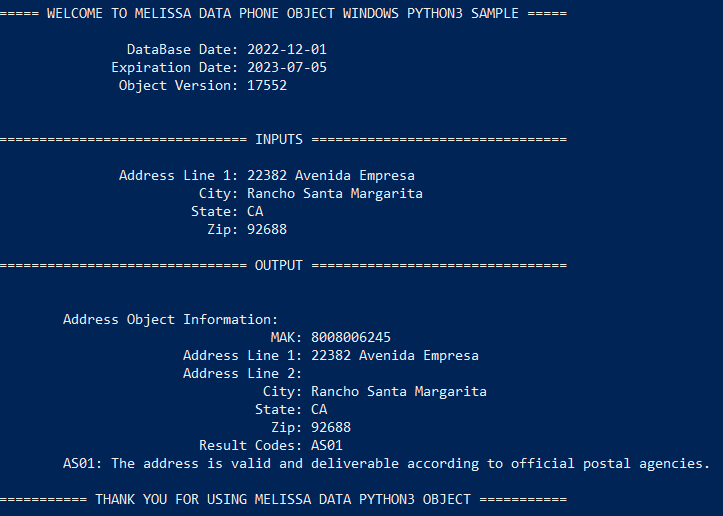
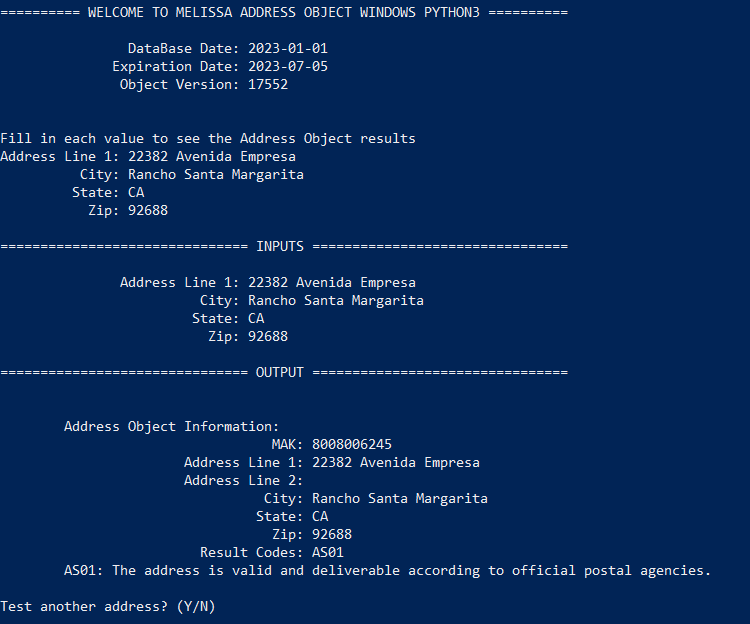
Commit Python3 code for Address Object with release notes

diff --git a/MelissaAddressObjectWindowsPython3/MelissaAddressObjectWindowsPython3.py b/MelissaAddressObjectWindowsPython3/MelissaAddressObjectWindowsPython3.py
@@ -48,7 +48,7 @@ class AddressObject:
             f"              Expiration Date: {self.md_address_obj.GetLicenseExpirationDate()}")
 
         """
-        This number should match with file properties of the Melissa Data Object binary file.
+        This number should match with file properties of the Melissa Object binary file.
         If TEST appears with the build number, there may be a license key issue.
         """
         print(
@@ -67,7 +67,7 @@ class AddressObject:
         result_codes = self.md_address_obj.GetResults()
 
         """ 
-        ResultsCodes explain any issues address object has with the object.
+        ResultsCodes explain any issues Address Object has with the object.
         List of result codes for Address object
         https://wiki.melissadata.com/?title=Result_Code_Details#Address_Object
 
@@ -107,7 +107,7 @@ def parse_arguments():
 
 
 def run_as_console(license, test_address, test_city, test_state, test_zip, data_path):
-    print("\n\n===== WELCOME TO MELISSA DATA ADDRESS OBJECT WINDOWS PYTHON3 SAMPLE =====\n")
+    print("\n\n========== WELCOME TO MELISSA ADDRESS OBJECT WINDOWS PYTHON3 ==========\n")
 
     address_object = AddressObject(license, data_path)
 
@@ -186,7 +186,7 @@ def run_as_console(license, test_address, test_city, test_state, test_zip, data_
 
                 print("Invalid Response, please respond 'Y' or 'N'")
 
-    print("\n=========== THANK YOU FOR USING MELISSA DATA PYTHON3 OBJECT ===========\n")
+    print("\n============= THANK YOU FOR USING MELISSA PYTHON3 OBJECT ==============\n")
 
 
 """  MAIN STARTS HERE   """

diff --git a/MelissaAddressObjectWindowsPython3/mdAddr_pythoncode.py b/MelissaAddressObjectWindowsPython3/mdAddr_pythoncode.py
@@ -7,9 +7,9 @@ dir = os.getcwd()
 
 
 if (os.name == 'nt'):
-  lib = ctypes.CDLL(f'{dir}/MelissaDataAddressObjectWindowsPython3Sample/mdAddr.dll')
+  lib = ctypes.CDLL(f'{dir}/MelissaAddressObjectWindowsPython3/mdAddr.dll')
 else:
-  lib = ctypes.CDLL(f'{dir}/MelissaDataAddressObjectLinuxPython3Sample/libmdPhone.so')
+  lib = ctypes.CDLL(f'{dir}/MelissaAddressObjectLinuxPython3/libmdPhone.so')
 
 
 lib.mdAddrCreate.argtypes = []

diff --git a/README.md b/README.md
@@ -1,8 +1,12 @@
-# Melissa Data Address Object Windows Python3 Sample
+# Melissa - Address Object Windows Python3
 
 ## Purpose
 
-This is an sample of the Melissa Data Address Object using Python3
+This code showcases the Melissa Address Object using Python3.
+
+Please feel free to copy or embed this code to your own project. Happy coding!
+
+For the latest Melissa Address Object release notes, please visit: https://releasenotes.melissa.com/on-premise-api/address-object/
 
 The console will ask the user for:
 
@@ -31,7 +35,7 @@ And return
 
 #### mdAddr.dll
 
-This is the c++ code of the Melissa Data Object.
+This is the c++ code of the Melissa Object.
 
 #### Data File(s)
 - Addr.dbf
@@ -64,14 +68,30 @@ These instructions will get you a copy of the project up and running on your loc
 
 This project is compatible with Python3
 
-#### Install the Python3
+#### Install Python3
 Before starting, make sure that Python3 has been correctly installed on your machine and your environment paths are configured. 
+
+You can download Python here: 
+https://www.python.org/downloads/
+
+To set up your Path to correctly to use the python3 command, execute the following steps:
+1) Run Powershell as an administrator 
+2) Execute the command: 
+`New-Item -ItemType SymbolicLink -Path "Link" -Target "Target"`
+
+    where "Target" is the path to py.exe (by default this should be "C:\Windows\py.exe")\
+    and "Link" is the path to py.exe, but "py.exe" is replaced with "python3.exe"\
+    For Example:\
+    `New-Item -ItemType SymbolicLink -Path "C:\Windows\python3.exe" -Target "C:\Windows\py.exe"`
+
 If you are unsure, you can check by opening a command prompt window and typing the following:
 `python3 --version`
 
- ![alt text](/screenshots/python_version.PNG)
+![alt text](/screenshots/python_version.PNG)
 
 If you see the version number then you have installed Python3 and set up your environment paths correctly!
+
+----------------------------------------
 
 
 #### Set up Powershell settings
@@ -106,32 +126,32 @@ Melissa Updater is a CLI application allowing the user to update their Melissa a
 	- It will handle all of the data download/path and dll(s) for you. 
 2.  If you already have the latest DQS Release (ZIP), you can find the data file(s) and dll(s) in there
 	- Use the location of where you copied/installed the data and update the "$DataPath" variable in the powershell script.
-	- Copy all the dll(s) mentioned above into the `MelissaDataAddressObjectWindowsPython3Sample` project folder.
+	- Copy all the dll(s) mentioned above into the `MelissaAddressObjectWindowsPython3` project folder.
 	
 ----------------------------------------
 
 ## Run Powershell Script
 Parameters:
-- address: a test street address (house number & street name)
-- city (optional): a test city
-- state (optional): a test state
-- zip (optional): a test zip code
+- -address: a test street address (house number & street name)
+- -city (optional): a test city
+- -state (optional): a test state
+- -zip (optional): a test zip code
  	
   These are convenient when you want to get results for a specific address in one run instead of testing multiple addresses in interactive mode.
 
-- license (optional): a license string to test the address object
-- quiet (optional): add to the command if you do not want to get any console output from the Melissa Updater
+- -license (optional): a license string to test the Address Object
+- -quiet (optional): add to the command if you do not want to get any console output from the Melissa Updater
 
 When you have modified the script to match your data location, let's run the script. There are two modes:
 - Interactive 
 
 	The script will prompt the user for an address, city, state, and zip, then use the provided inputs to test Address Object. For example:
 	```
-	$ .\MelissaDataAddressObjectWindowsPython3Sample.ps1
+	$ .\MelissaAddressObjectWindowsPython3.ps1
 	```
 	For quiet mode:
 	```
-	$ .\MelissaDataAddressObjectWindowsPython3Sample.ps1 -quiet
+	$ .\MelissaAddressObjectWindowsPython3.ps1 -quiet
 	```
 - Command Line 
 
@@ -139,20 +159,20 @@ When you have modified the script to match your data location, let's run the scr
 
 	With all parameters:
 	```
-	$ .\MelissaDataAddressObjectWindowsPython3Sample.ps1 -address "22382 Avenida Empresa" -city "Rancho Santa Margarita" -state "CA" -zip "92688"
-	$ .\MelissaDataAddressObjectWindowsPython3Sample.ps1 -address "22382 Avenida Empresa" -city "Rancho Santa Margarita" -state "CA" -zip "92688" -license "<your_license_string>"
+	$ .\MelissaAddressObjectWindowsPython3.ps1 -address "22382 Avenida Empresa" -city "Rancho Santa Margarita" -state "CA" -zip "92688"
+	$ .\MelissaAddressObjectWindowsPython3.ps1 -address "22382 Avenida Empresa" -city "Rancho Santa Margarita" -state "CA" -zip "92688" -license "<your_license_string>"
 	```
 
 	With any known (optional) parameters:
 	```
-	$ .\MelissaDataAddressObjectWindowsPython3Sample.ps1 -address "22382 Avenida Empresa" -state "CA" 
-	$ .\MelissaDataAddressObjectWindowsPython3Sample.ps1 -address "22382 Avenida Empresa" -state "CA" -license "<your_license_string>"
+	$ .\MelissaAddressObjectWindowsPython3.ps1 -address "22382 Avenida Empresa" -state "CA" 
+	$ .\MelissaAddressObjectWindowsPython3.ps1 -address "22382 Avenida Empresa" -state "CA" -license "<your_license_string>"
 	```
 
 	For quiet mode:
 	```
-	$ .\MelissaDataAddressObjectWindowsPython3Sample.ps1 -address "22382 Avenida Empresa" -city "Rancho Santa Margarita" -state "CA" -zip "92688" -quiet
-	$ .\MelissaDataAddressObjectWindowsPython3Sample.ps1 -address "22382 Avenida Empresa" -city "Rancho Santa Margarita" -state "CA" -zip "92688" -license "<your_license_string>" -quiet
+	$ .\MelissaAddressObjectWindowsPython3.ps1 -address "22382 Avenida Empresa" -city "Rancho Santa Margarita" -state "CA" -zip "92688" -quiet
+	$ .\MelissaAddressObjectWindowsPython3.ps1 -address "22382 Avenida Empresa" -city "Rancho Santa Margarita" -state "CA" -zip "92688" -license "<your_license_string>" -quiet
 	```
 
 This is the expected output from a successful setup for interactive mode:
@@ -162,7 +182,7 @@ This is the expected output from a successful setup for interactive mode:
     
 ## Troubleshooting
 
-Troubleshooting for errors found while running your sample program.
+Troubleshooting for errors found while running your program.
 
 ### Errors:
 
@@ -177,7 +197,7 @@ Troubleshooting for errors found while running your sample program.
 ## Contact Us
 
 For free technical support, please call us at 800-MELISSA ext. 4
-(800-635-4772 ext. 4) or email us at tech@MelissaData.com.
+(800-635-4772 ext. 4) or email us at tech@melissa.com.
 
-To purchase this product, contact Melissa Data sales department at
+To purchase this product, contact Melissa sales department at
 800-MELISSA ext. 3 (800-635-4772 ext. 3).

diff --git a/LICENSE.md b/LICENSE.md
@@ -1,0 +1,21 @@
+MIT License
+
+Copyright (c) Melissa Data Corporation
+
+Permission is hereby granted, free of charge, to any person obtaining a copy
+of this software and associated documentation files (the "Software"), to deal
+in the Software without restriction, including without limitation the rights
+to use, copy, modify, merge, publish, distribute, sublicense, and/or sell
+copies of the Software, and to permit persons to whom the Software is
+furnished to do so, subject to the following conditions:
+
+The above copyright notice and this permission notice shall be included in all
+copies or substantial portions of the Software.
+
+THE SOFTWARE IS PROVIDED "AS IS", WITHOUT WARRANTY OF ANY KIND, EXPRESS OR
+IMPLIED, INCLUDING BUT NOT LIMITED TO THE WARRANTIES OF MERCHANTABILITY,
+FITNESS FOR A PARTICULAR PURPOSE AND NONINFRINGEMENT. IN NO EVENT SHALL THE
+AUTHORS OR COPYRIGHT HOLDERS BE LIABLE FOR ANY CLAIM, DAMAGES OR OTHER
+LIABILITY, WHETHER IN AN ACTION OF CONTRACT, TORT OR OTHERWISE, ARISING FROM,
+OUT OF OR IN CONNECTION WITH THE SOFTWARE OR THE USE OR OTHER DEALINGS IN THE
+SOFTWARE.
